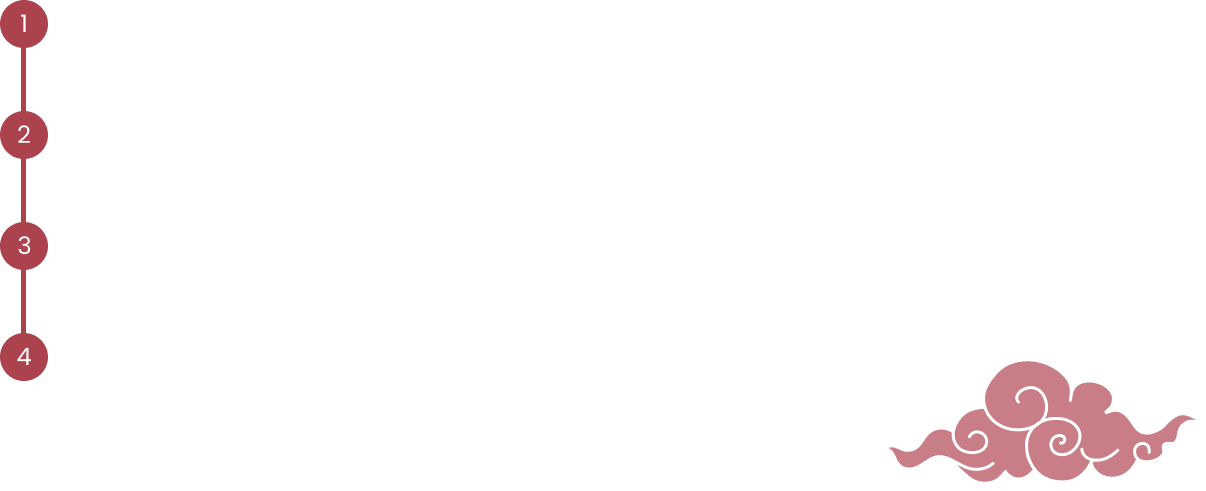
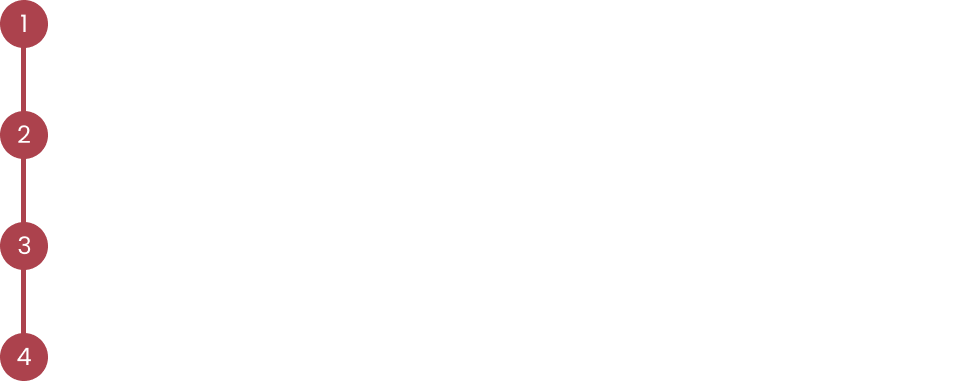
fix alur

Changed region(s): [[0.0, 0.0, 0.0605, 1.0], [0.7258, 0.7218, 0.9979, 0.9816]]

diff --git a/src/components/Alur/Alur.js b/src/components/Alur/Alur.js
@@ -15,26 +15,12 @@ const Alur = () => {
 
 				<div className="bg-primary py-8 pl-5 pr-6 mt-5 text-white font-semibold text-sm flex justify-center">
 					<div className=" mr-4">
-						<img
-							src="/assets/img/list.svg"
-							alt="missing list"
-							className="max-h-72 min-h-full xsm3:max-h-56 sm:max-h-72 sm:min-h-46 md:min-h-72 md:max-h-fit"
-						></img>
-					</div>
-					<div className="">
-						<h1 className="pb-3 xsm:pb-8 sm:pb-10 xsm:text-base md:text-4xl">
-							Klik tombol “Daftar Yuk!” di bagian atas{" "}
-						</h1>
-						<h1 className="pb-3 xsm:pb-8 sm:pb-10 xsm:text-base md:text-4xl">
-							Isi google form yang telah disediakan untuk
-							pendaftaran{" "}
-						</h1>
-						<h1 className="pb-3 xsm:pb-8 sm:pb-10 xsm:text-base md:text-4xl">
-							Pilih layanan yang kamu inginkan pada google form.{" "}
-						</h1>
-						<h1 className="xsm:text-base sm:text-2xl ">
-							Tunggu email konfirmasi yang akan dikirimkan.{" "}
-						</h1>
+					<img
+						src="/assets/img/alur.png"
+						className="flex place-self-center ml-12"
+						alt="missing logo"
+					></img>
+
 					</div>
 				</div>
 			</div>
